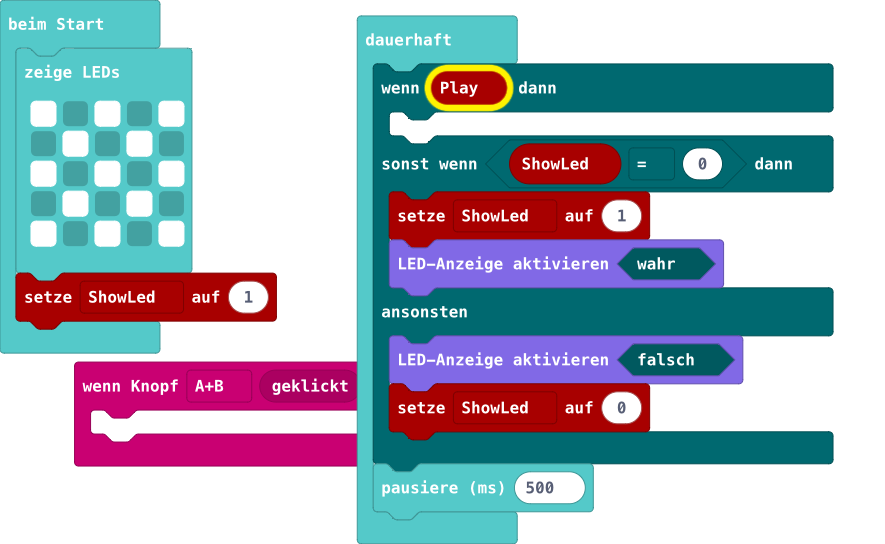
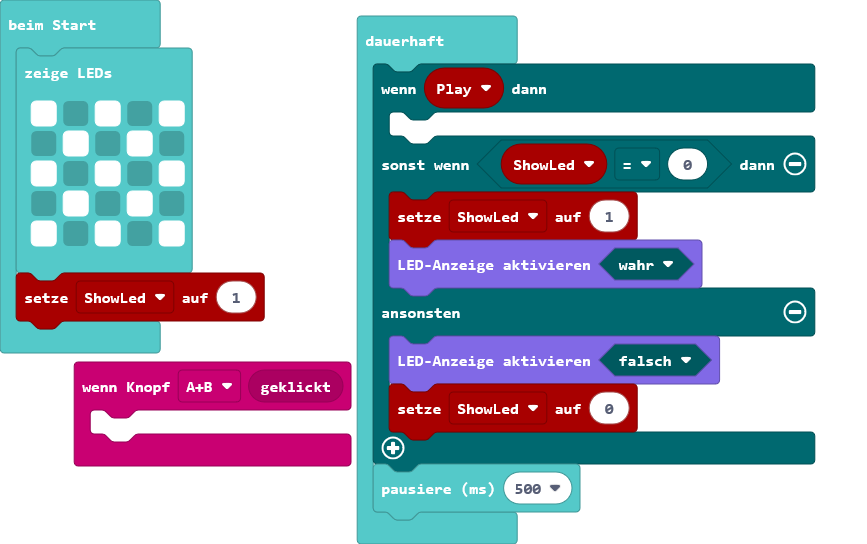
Aktualisiere pxt.json, main.blocks, main.ts

diff --git a/main.ts b/main.ts
@@ -1,24 +1,23 @@
 input.onButtonEvent(Button.AB, input.buttonEventClick(), function () {
-	
+
 })
 basic.showLeds(`
-    # . # . #
     . # . # .
-    # . # . #
-    . # . # .
-    # . # . #
+    # # # # #
+    # # # # #
+    . # # # .
+    . . # . .
     `)
-let ShowLed = 1
+let showLed = 1
 basic.forever(function () {
-    let Play = 0
-    if (Play) {
-    	
-    } else if (ShowLed == 0) {
-        ShowLed = 1
+    if (true) {
+
+    } else if (showLed == 0) {
         led.enable(true)
-    } else {
+        showLed = 1
+    } else if (showLed == 1) {
         led.enable(false)
-        ShowLed = 0
+        showLed = 0
     }
     basic.pause(500)
 })
